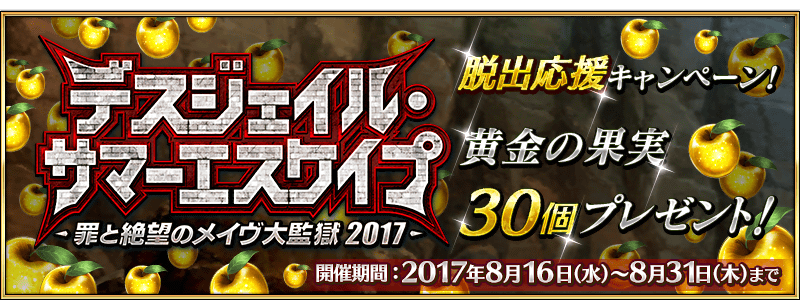
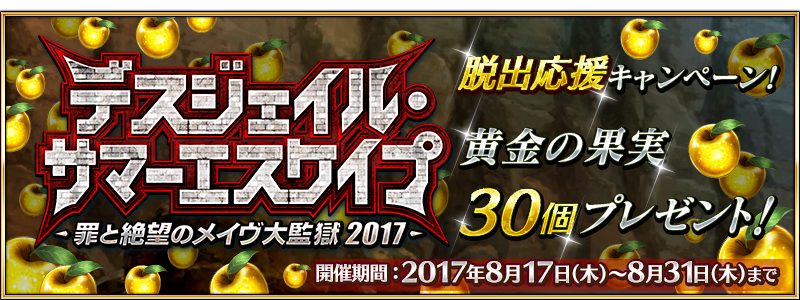
0817kwoed

diff --git a/event_2017summer02_ca.html b/event_2017summer02_ca.html
@@ -44,17 +44,23 @@
 <div style="height:10px; margin-top:-15px;"></div>
 <!-- block -->
 <p style="margin-bottom: 5px;"><img alt="" src="common/images/2017/2017summer02_ca_6pl93/midashi_01.png"/></p>
-<p class="em01">2017年<s>8月16日(三) 17:00</s>預定8月17日(四) 10:00～8月31日(四) AM2:59的期間，舉辦「Death Jail・夏日逃脫 ～罪與絶望的梅芙大監獄大監獄2017～」逃脫聲援宣傳活動！。<br/>
+<p class="em01">
+※在2017年8月17日(四)AM2:00，變更以下舉辦期間與登入獎勵內容。<br/>
+※黄金の果実的合計配發數並未變更。<br/>
+※關於圖像有一部份未變更之處。<br/>
+<br/>
+2017年<s>8月16日(三) 17:00</s>8月17日(四) 10:00～8月31日(四) AM2:59的期間，舉辦「Death Jail・夏日逃脫 ～罪與絶望的梅芙大監獄大監獄2017～」逃脫聲援宣傳活動！。<br/>
 舉辦期間限定活動「Death Jail・夏日逃脫 ～罪與絶望的梅芙大監獄大監獄2017～」後，對<span class="notice">全部的Master對象</span>做為登入獎勵贈送最多合計30個黄金の果実！</p>
 <!-- block -->
 <p style="margin-bottom: 5px;"><img alt="" src="common/images/2017/2017summer02_ca_6pl93/midashi_02.png"/></p>
-<p class="em01">舉辦期間限定活動「Death Jail・夏日逃脫 ～罪與絶望的梅芙大監獄大監獄2017～」後，2017年<s>8月16日(三) 17:00</s>預定8月17日(四) 10:00～8月31日(四) AM2:59的期間中，在初次進行登入的時間點贈送黄金の果実2個！</p>
+<p class="em01">舉辦期間限定活動「Death Jail・夏日逃脫 ～罪與絶望的梅芙大監獄大監獄2017～」後，2017年<s>8月16日(三) 17:00</s>8月17日(四) 10:00～8月31日(四) AM2:59的期間中，在初次進行登入的時間點贈送黄金の果実2個！<br/>
+※隨著「每天贈送黄金的果実2個！」的登入獎勵舉辦時間變更，8月17日(四)AM3:00～8月18日(五)AM3:59之間預定領取分的追加黄金の果実2個合計給予4個。</p>
 <table class="table_non mt-15 table_color">
 <tbody>
 <tr>
 <td style="width:67%; vertical-align:top;">
 <p><span class="diamond">◆</span><span class="strong">舉辦期間</span><span class="diamond">◆</span><br/>
-<span class="em01 notice">2017年<s>8月16日(三) 17:00</s>預定8月17日(四) 10:00～8月31日(四) AM2:59</span></p>
+<span class="em01 notice">2017年<s>8月16日(三) 17:00</s>8月17日(四) 10:00～8月31日(四) AM2:59</span></p>
 </td>
 <td style="width:30%; vertical-align:top; padding-left: 3%;">
 <img align="right" alt="" src="common/images/2017/2017summer02_ca_6pl93/info_image_02.png" style="vertical-align:bottom;" width="100%"/>
@@ -68,12 +74,12 @@
 <!-- block -->
 <p style="margin-bottom: 5px;"><img alt="" src="common/images/2017/2017summer02_ca_6pl93/midashi_03.png"/></p>
 <p class="em01">下述的期間中，進行登入的話做為每日登入獎勵贈送黄金の果実2個！<br/>
-全部領取的話最多可得到28個黄金の果実！</p>
+全部領取的話最多可得到<s>28</s>26個黄金の果実！</p>
 <p><span class="diamond">◆</span><span class="strong">舉辦期間</span><span class="diamond">◆</span><br/>
-<span class="em01 notice">2017年8月17日(四) AM3:00～8月31日(四) AM2:59</span></p>
-<p class="em01">※第1次的登入獎勵從8月17日(四) AM3:00配發。<br/>
+<span class="em01 notice">2017年8月18日(四) AM3:00～8月31日(四) AM2:59</span></p>
+<p class="em01">※第1次的登入獎勵從8月18日(四) AM3:00配發。<br/>
 ※登入獎勵會在AM3:00配發。<br/>
-※最多能領取28個，根據遊戲開始的時機點，可能會無法至此上限。<br/>
+※最多能領取<s>28</s>26個，根據遊戲開始的時機點，可能會無法至此上限。<br/>
 ※與「初次登入獎勵就贈送黄金の果実2個！」宣傳活動有所差異。</p>
 </article>
 </div>
